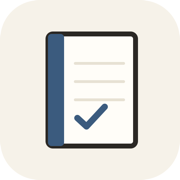
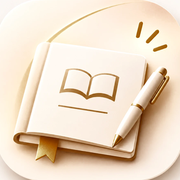
ホーム画面のアイコンを新しいデザインに変更（金色を濃くして見やすく調整）

diff --git a/index.html b/index.html
@@ -8,9 +8,9 @@
   <meta name="theme-color" content="#f6f2e9">
   <meta name="apple-mobile-web-app-capable" content="yes">
   <meta name="apple-mobile-web-app-title" content="読書ノート">
-  <link rel="manifest" href="manifest.webmanifest">
-  <link rel="icon" href="icon.svg" type="image/svg+xml">
-  <link rel="apple-touch-icon" href="icon-180.png">
+  <link rel="manifest" href="manifest.webmanifest?v=2">
+  <link rel="icon" href="icon-32.png?v=2" type="image/png" sizes="32x32">
+  <link rel="apple-touch-icon" href="icon-180.png?v=2">
   <link rel="preconnect" href="https://fonts.googleapis.com">
   <link rel="preconnect" href="https://fonts.gstatic.com" crossorigin>
   <link href="https://fonts.googleapis.com/css2?family=Klee+One:wght@400;600&display=swap" rel="stylesheet">

diff --git a/README.md b/README.md
@@ -23,7 +23,7 @@
 | `index.html` | 画面の枠組み |
 | `style.css` | 見た目（ノート風デザイン） |
 | `app.js` | 動き（保存、検索、LINE送信など） |
-| `manifest.webmanifest`, `icon*.png`, `icon.svg` | ホーム画面に追加したときのアプリ名とアイコン |
+| `manifest.webmanifest`, `icon-*.png`（元画像は `icon-src/`） | ホーム画面に追加したときのアプリ名とアイコン |
 
 ## 使っている無料サービス（登録は要りません）
 
